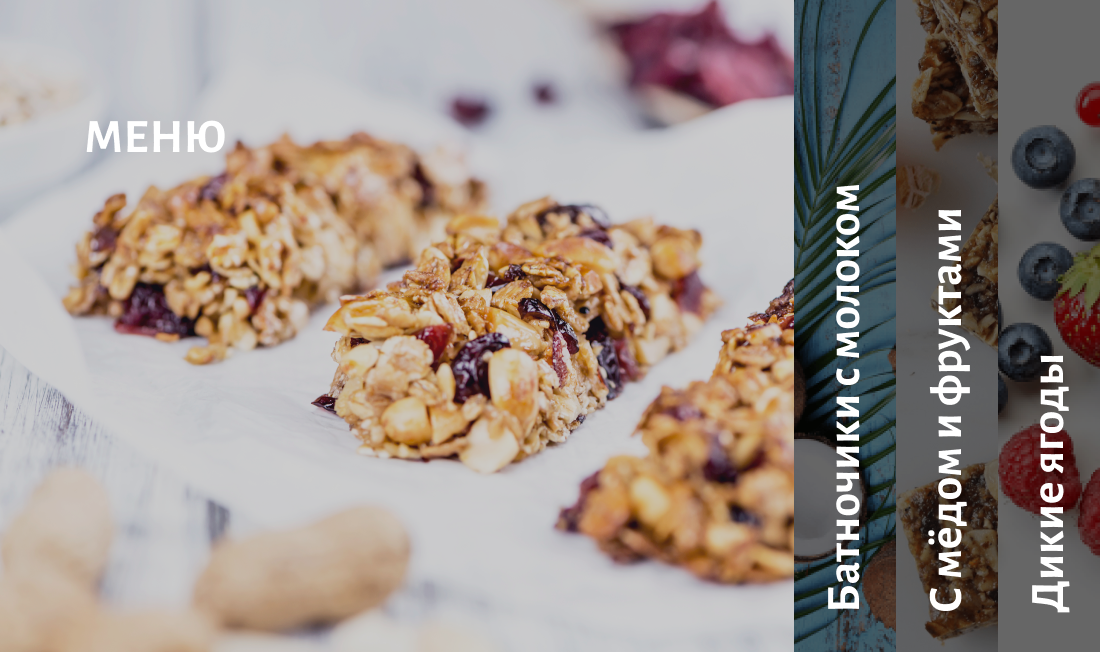
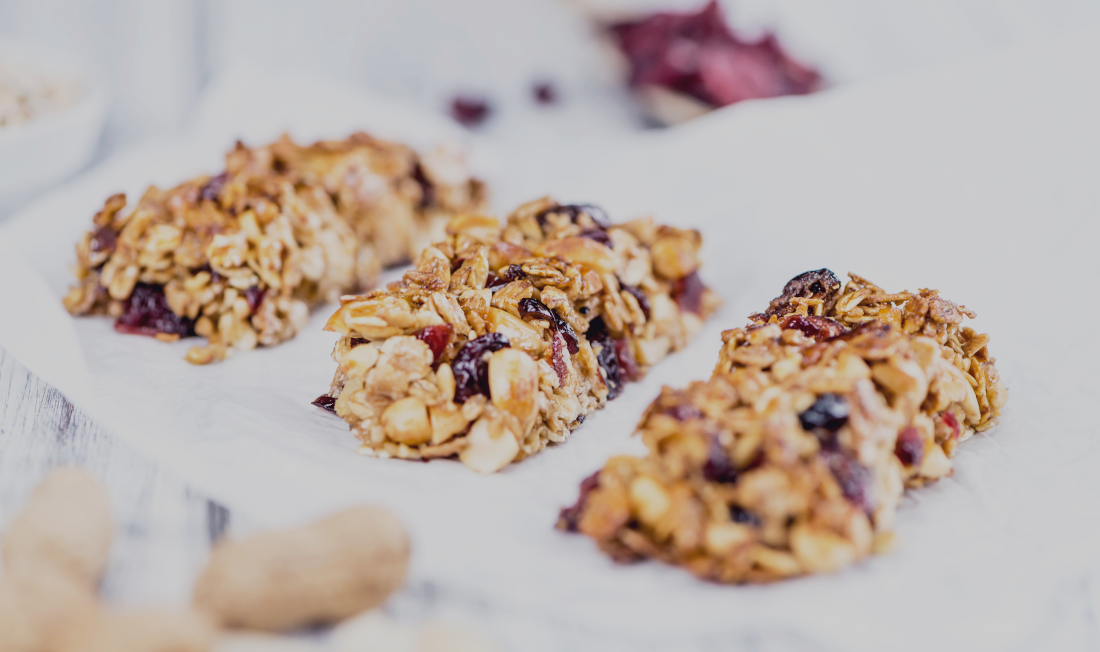
fix details

Changed region(s): [[0.7109, 0.0, 1.0, 1.0], [0.0618, 0.184, 0.2164, 0.2454]]

diff --git a/css/main.css b/css/main.css
@@ -15,9 +15,6 @@
 .fixed-menu__item--active .fixed-menu__link {
   border-color: #3372a6;
 }
-.fixed-menu__item--white .fixed-menu__link {
-  border-color: #fff;
-}
 
 .fixed-menu__link {
   width: 0.8888888889rem;
@@ -47,6 +44,10 @@
 }
 .fixed-menu--white .fixed-menu__link::before {
   background: #fff;
+}
+
+.fixed-menu--white > .fixed-menu__item--active .fixed-menu__link {
+  border-color: #fff;
 }
 
 html {
@@ -651,6 +652,15 @@ ul, li {
   flex-direction: initial;
   align-items: center;
   padding: 0 5%;
+  position: relative;
+  z-index: -5;
+}
+.offer-section::after {
+  content: url(../img/offer/deco.png);
+  position: absolute;
+  right: 0;
+  bottom: -30%;
+  z-index: -5;
 }
 
 .offer .bx-wrapper {
@@ -682,6 +692,7 @@ ul, li {
 }
 .offer__content {
   width: 50%;
+  z-index: 5;
 }
 @media screen and (max-width: 768px) {
   .offer__content {
@@ -1132,7 +1143,8 @@ ul, li {
   display: none;
 }
 .radio__elem:checked ~ .radio__visible::before {
-  display: block;
+  width: 0.7222222222rem;
+  height: 0.7222222222rem;
 }
 
 .radio__visible {
@@ -1144,16 +1156,16 @@ ul, li {
   margin-right: 0.5rem;
 }
 .radio__visible::before {
-  display: none;
   position: absolute;
   content: "";
   background: #365A49;
-  width: 0.7222222222rem;
-  height: 0.7222222222rem;
+  width: 0;
+  height: 0;
   border-radius: 50%;
   top: 50%;
   left: 50%;
   transform: translate(-50%, -50%);
+  transition: 0.2s;
 }
 
 .advantages__list {
@@ -1186,7 +1198,7 @@ ul, li {
 }
 
 .menu-section {
-  background: #98b3af;
+  background: #000;
   position: relative;
   color: #fff;
 }
@@ -1201,12 +1213,7 @@ ul, li {
   display: flex;
   height: 100%;
   justify-content: flex-end;
-}
-
-.menu {
-  display: flex;
-  height: 100%;
-  justify-content: flex-end;
+  background: url(../img/menu/Slide.png) center/cover no-repeat;
 }
 .menu__title {
   font-weight: 700;
@@ -1243,13 +1250,13 @@ ul, li {
   height: 100%;
 }
 .snacks__title-wrapper--one {
-  background: #ace3ec;
+  background: url(../img/menu/one.png) center/cover no-repeat;
 }
 .snacks__title-wrapper--two {
-  background: #7199b9;
+  background: url(../img/menu/two.png) center/cover no-repeat;
 }
 .snacks__title-wrapper--three {
-  background: #5486a7;
+  background: url(../img/menu/three.png) center/cover no-repeat;
 }
 @media screen and (max-width: 480px) {
   .snacks__title-wrapper {
@@ -1275,7 +1282,6 @@ ul, li {
 .snacks__description {
   background: #333537e6;
   max-width: 0;
-  opacity: 0;
   transition: all 0.4s ease-in-out;
 }
 .snacks__description--active {

diff --git a/index.html b/index.html
@@ -5,7 +5,7 @@
     <meta http-equiv="X-UA-Compatible" content="IE=edge">
     <meta name="viewport" content="width=device-width, initial-scale=1.0">
     <link rel="preconnect" href="https://fonts.gstatic.com">
-    <link href="https://fonts.googleapis.com/css2?family=Alegreya+Sans:wght@400;700;800&display=swap" rel="stylesheet">
+<link href="https://fonts.googleapis.com/css2?family=Alegreya+Sans:wght@300;400;500;700&display=swap" rel="stylesheet">
     <link rel="stylesheet" href="https://cdn.jsdelivr.net/bxslider/4.2.12/jquery.bxslider.css">
     <link rel="stylesheet" href="css/main.css">
     <title>Главная</title>
@@ -17,7 +17,7 @@
                 <div class="container container--top">
                     <header class="header">
                         <a href="#" class="logo">
-                            <img src="img/logo.png" alt="logo" class="logo__img">
+                            <img src="img/logo.svg" alt="logo" class="logo__img">
                         </a>
                         <nav class="nav">
                             <ul class="nav__list">

diff --git a/css/blocks/_menu.scss b/css/blocks/_menu.scss
@@ -1,5 +1,5 @@
 .menu-section {
-    background: #98b3af;
+    background: #000;
     position: relative;
     color: #fff;
 
@@ -15,12 +15,7 @@
     display: flex;
     height: 100%;
     justify-content: flex-end;
-}
-
-.menu {
-    display: flex;
-    height: 100%;
-    justify-content: flex-end;
+    background: url(../img/menu/Slide.png) center / cover no-repeat ;
 
 
     &__title {
@@ -59,15 +54,15 @@
         width: 102px;
         height: 100%;
         &--one {
-            background: #ace3ec;
+            background: url(../img/menu/one.png) center / cover no-repeat;
         }
 
         &--two {
-            background:  #7199b9;
+            background:  url(../img/menu/two.png) center / cover no-repeat;
         }
 
         &--three {
-            background: #5486a7;
+            background: url(../img/menu/three.png) center / cover no-repeat;
         }
 
         @include phones {
@@ -94,7 +89,6 @@
     &__description {
         background: #333537e6;
         max-width: 0;
-        opacity: 0;
         transition: all .4s ease-in-out;
 
         &--active {

diff --git a/css/blocks/_form.scss b/css/blocks/_form.scss
@@ -134,7 +134,8 @@
 
     &:checked ~ .radio__visible {
         &::before {
-            display: block;
+            width: rem(13px);
+            height: rem(13px);
         }
     }
 }
@@ -148,15 +149,15 @@
     margin-right: 0.5rem;
 
     &::before {
-        display: none;
         position: absolute;
         content: "";
         background: #365A49;
-        width: rem(13px);
-        height: rem(13px);
+        width: 0;
+        height: 0;
         border-radius: 50%;
         top: 50%;
         left: 50%;
         transform: translate(-50%, -50%);
+        transition: .2s;
     }
 }

diff --git a/css/layout/_fixed-menu.scss b/css/layout/_fixed-menu.scss
@@ -18,11 +18,6 @@
         }
     }
 
-    &--white {
-        .fixed-menu__link {
-            border-color: #fff;
-        }
-    }
 }
 
 .fixed-menu__link {
@@ -47,14 +42,20 @@
     }
 }
 
+
 @media (max-width: 768px) {
     .fixed-menu { display: none;}
 }
 
 .fixed-menu--white { 
-    
     .fixed-menu__link::before {
         background: #fff;
     }
+}
 
+
+.fixed-menu--white > .fixed-menu__item--active {
+    .fixed-menu__link {
+        border-color: #fff;
+    }
 }

diff --git a/css/blocks/_offer.scss b/css/blocks/_offer.scss
@@ -4,6 +4,16 @@
     flex-direction: initial;
     align-items: center;
     padding: 0 5%;
+    position: relative;
+    z-index: -5;
+
+    &::after {
+        content: url(../img/offer/deco.png);
+        position: absolute;
+        right: 0;
+        bottom: -30%;
+        z-index: -5;
+    }
 }
 
 .offer {
@@ -39,7 +49,7 @@
 
     &__content {
         width: 50%;
-        
+        z-index: 5;
         @include tablets {
             width: 100%;
         }

diff --git a/js/player.js b/js/player.js
@@ -36,8 +36,14 @@ let eventsInit = () => {
 
       if (player.getVolume() == 0) {
         player.setVolume('100');
+        $(".volume__bar-btn").css({
+          left: `${100}%`
+        });
       } else {
         player.setVolume('0');
+        $(".volume__bar-btn").css({
+          left: `${0}%`
+        });
       }
     });
 
